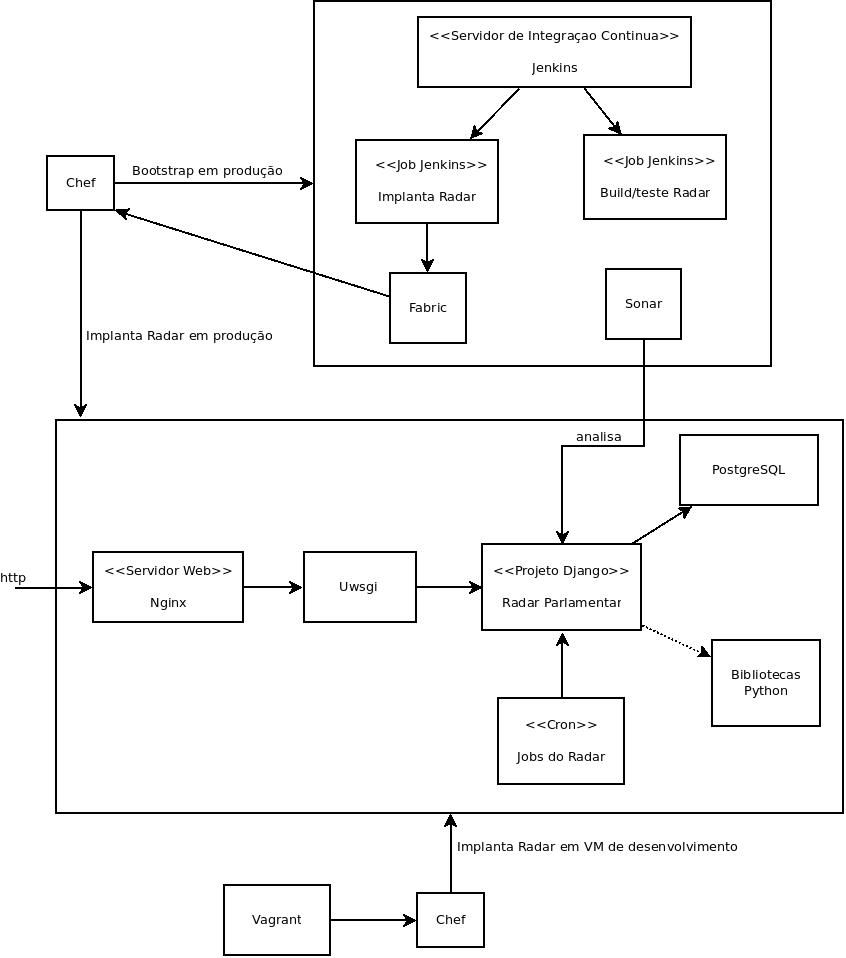
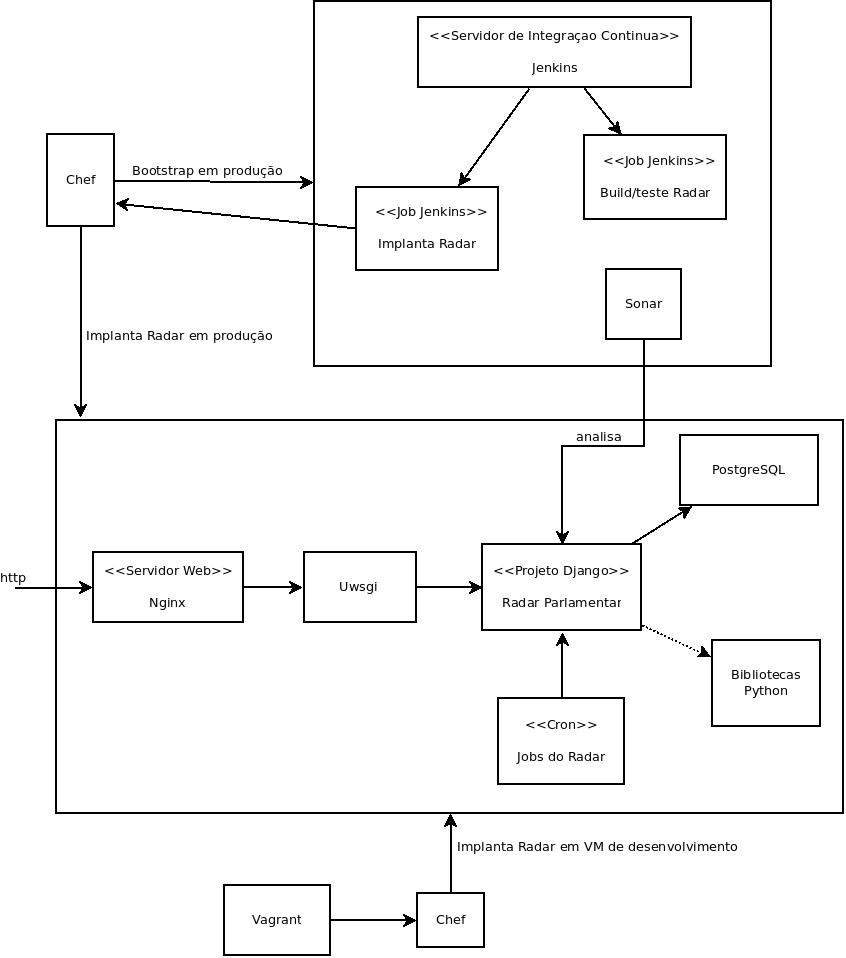
removendo fabric

diff --git a/cookbooks/radar/recipes/jenkins.rb b/cookbooks/radar/recipes/jenkins.rb
@@ -58,20 +58,6 @@ template xml_deploy do
   })
 end
 
-python_pip "fabric" do
-  virtualenv "#{venv_folder}"
-end
-
-template "#{home}/fabfile.py" do
-  source "fabfile.py.erb"
-  variables ({
-    :user => user,
-    :password => password,
-    :home => home
-  })
-end
-
-
 jenkins_job 'deploy_radar' do 
   config xml_deploy
   action :create

diff --git a/cookbooks/radar/recipes/default.rb b/cookbooks/radar/recipes/default.rb
@@ -193,7 +193,7 @@ end
 
 python_pip "" do
   virtualenv "#{venv_folder}"
-  options "-r #{repo_folder}/requirements.txt"
+  options "-r #{repo_folder}/radar_parlamentar/requirements.txt"
 end
 
 directory "#{cache_folder}" do
